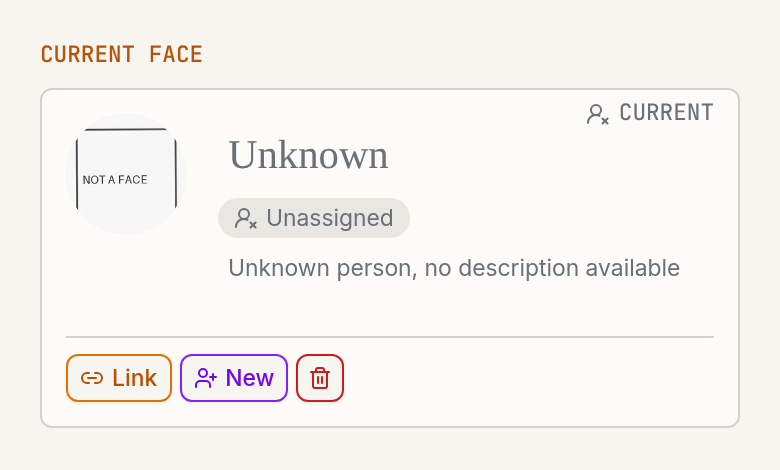
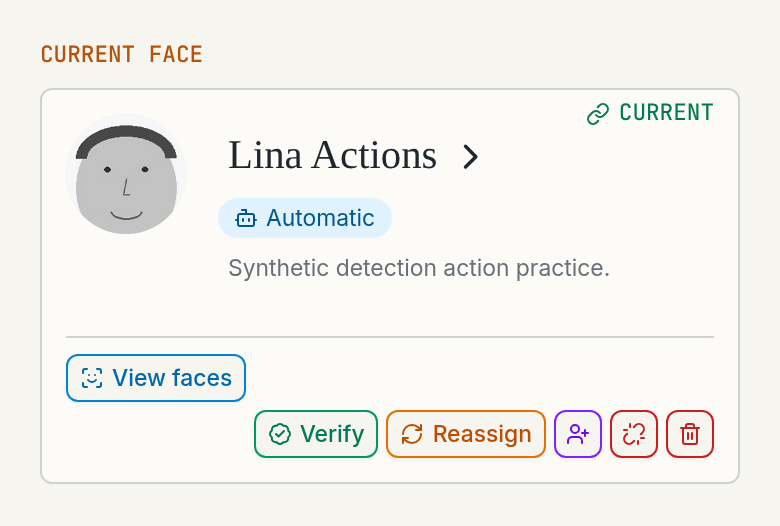
Keep View faces left and group card actions on the right (#49)
The current-face card footer keeps the identity faces popover on the
left and right-aligns Verify, Reassign/Link, New, Unlink and Delete as
one group, which wraps below View faces on narrow panels. Refresh the
card evidence with a linked face.

diff --git a/people-gator-app/src/components/custom/SelectedFaceItem.vue b/people-gator-app/src/components/custom/SelectedFaceItem.vue
@@ -226,75 +226,77 @@ watch(() => props.face.id, cancelCreating)
           :person-id="face.personId"
           :name="face.name"
         />
-        <slot name="actions" />
-        <Button
-          v-if="face.personId"
-          type="button"
-          size="xs"
-          variant="outline"
-          class="border-amber-600 text-amber-700 hover:text-amber-700 dark:border-amber-500 dark:text-amber-400 dark:hover:text-amber-400"
-          :disabled="props.assignmentPending"
-          aria-label="Reassign to another profile"
-          title="Reassign to another profile"
-          @click="emit('findProfile')"
-        >
-          <RefreshCw aria-hidden="true" />
-          Reassign
-        </Button>
-        <Button
-          v-else
-          type="button"
-          size="xs"
-          variant="outline"
-          :disabled="props.assignmentPending"
-          class="border-amber-600 text-amber-700 hover:text-amber-700 dark:border-amber-500 dark:text-amber-400 dark:hover:text-amber-400"
-          aria-label="Link to an existing profile"
-          title="Link to an existing profile"
-          @click="emit('findProfile')"
-        >
-          <Link2 aria-hidden="true" />
-          Link
-        </Button>
-        <Button
-          type="button"
-          :size="face.personId ? 'icon-xs' : 'xs'"
-          variant="outline"
-          class="border-violet-600 text-violet-700 hover:text-violet-700 dark:border-violet-500 dark:text-violet-400 dark:hover:text-violet-400"
-          :disabled="props.assignmentPending"
-          aria-label="Create and assign a new profile"
-          title="Create and assign a new profile"
-          @click="startCreating"
-        >
-          <UserPlus aria-hidden="true" />
-          <span :class="face.personId && 'sr-only'">New</span>
-        </Button>
-        <Button
-          v-if="face.personId"
-          type="button"
-          size="icon-xs"
-          variant="outline"
-          class="border-destructive text-destructive hover:text-destructive dark:border-destructive"
-          :disabled="props.assignmentPending"
-          aria-label="Unassign current profile"
-          title="Unassign current profile"
-          @click="emit('unassign')"
-        >
-          <Unlink aria-hidden="true" />
-          <span class="sr-only">Unlink</span>
-        </Button>
-        <Button
-          v-if="canDelete"
-          type="button"
-          size="icon-xs"
-          variant="outline"
-          class="border-destructive text-destructive hover:text-destructive dark:border-destructive"
-          :disabled="props.assignmentPending"
-          aria-label="Delete detection"
-          title="Delete detection"
-          @click="emit('delete')"
-        >
-          <Trash2 aria-hidden="true" />
-        </Button>
+        <div class="ml-auto flex min-w-0 flex-wrap items-center justify-end gap-1">
+          <slot name="actions" />
+          <Button
+            v-if="face.personId"
+            type="button"
+            size="xs"
+            variant="outline"
+            class="border-amber-600 text-amber-700 hover:text-amber-700 dark:border-amber-500 dark:text-amber-400 dark:hover:text-amber-400"
+            :disabled="props.assignmentPending"
+            aria-label="Reassign to another profile"
+            title="Reassign to another profile"
+            @click="emit('findProfile')"
+          >
+            <RefreshCw aria-hidden="true" />
+            Reassign
+          </Button>
+          <Button
+            v-else
+            type="button"
+            size="xs"
+            variant="outline"
+            :disabled="props.assignmentPending"
+            class="border-amber-600 text-amber-700 hover:text-amber-700 dark:border-amber-500 dark:text-amber-400 dark:hover:text-amber-400"
+            aria-label="Link to an existing profile"
+            title="Link to an existing profile"
+            @click="emit('findProfile')"
+          >
+            <Link2 aria-hidden="true" />
+            Link
+          </Button>
+          <Button
+            type="button"
+            :size="face.personId ? 'icon-xs' : 'xs'"
+            variant="outline"
+            class="border-violet-600 text-violet-700 hover:text-violet-700 dark:border-violet-500 dark:text-violet-400 dark:hover:text-violet-400"
+            :disabled="props.assignmentPending"
+            aria-label="Create and assign a new profile"
+            title="Create and assign a new profile"
+            @click="startCreating"
+          >
+            <UserPlus aria-hidden="true" />
+            <span :class="face.personId && 'sr-only'">New</span>
+          </Button>
+          <Button
+            v-if="face.personId"
+            type="button"
+            size="icon-xs"
+            variant="outline"
+            class="border-destructive text-destructive hover:text-destructive dark:border-destructive"
+            :disabled="props.assignmentPending"
+            aria-label="Unassign current profile"
+            title="Unassign current profile"
+            @click="emit('unassign')"
+          >
+            <Unlink aria-hidden="true" />
+            <span class="sr-only">Unlink</span>
+          </Button>
+          <Button
+            v-if="canDelete"
+            type="button"
+            size="icon-xs"
+            variant="outline"
+            class="border-destructive text-destructive hover:text-destructive dark:border-destructive"
+            :disabled="props.assignmentPending"
+            aria-label="Delete detection"
+            title="Delete detection"
+            @click="emit('delete')"
+          >
+            <Trash2 aria-hidden="true" />
+          </Button>
+        </div>
       </div>
       <p v-if="actionError" role="alert" class="basis-full text-xs text-destructive">
         {{ actionError }}

diff --git a/people-gator-app/src/__tests__/SimilarPeoplePanel.spec.ts b/people-gator-app/src/__tests__/SimilarPeoplePanel.spec.ts
@@ -189,6 +189,15 @@ describe('SimilarPeoplePanel', () => {
     const reassignButton = wrapper.get('[aria-label="Reassign to another profile"]')
     expect(reassignButton.attributes('data-size')).toBe('xs')
     expect(reassignButton.element.closest('[data-slot="item-footer"]')).not.toBeNull()
+    // View faces stays on the left; the actions are grouped on the right.
+    const actions = reassignButton.element.parentElement!
+    expect(actions.classList).toContain('ml-auto')
+    expect(actions.classList).toContain('justify-end')
+    const viewFaces = wrapper.get('button[aria-label*="faces" i]').element
+    expect(actions.contains(viewFaces)).toBe(false)
+    expect(
+      viewFaces.compareDocumentPosition(actions) & Node.DOCUMENT_POSITION_FOLLOWING,
+    ).toBeTruthy()
     expect(wrapper.text()).toContain('Reassign to similar')
     expect(
       wrapper.get('[aria-label="Assigned to Anna Nováková"]').attributes('disabled'),

diff --git a/people-gator-api/docs/PREVIEW-SEEDING.md b/people-gator-api/docs/PREVIEW-SEEDING.md
@@ -996,9 +996,10 @@ checks Nora's empty gallery and preserves a reviewed assignment on rerun.
 
 
 `identity-reference-faces` also selects an assigned manual face for checking the
-card's compact footer: **View faces**, **Verify** and **Reassign** share one
-action row, followed by named icon buttons for **New** and **Unlink**.
-Controls wrap together on narrower panels. Verification errors appear inside the
+card's compact footer: **View faces** stays on the left, and **Verify**,
+**Reassign** and named icon buttons for **New**, **Unlink** and (for admins)
+**Delete detection** are grouped on the right. On narrow panels the action group
+wraps below View faces and stays right-aligned. Verification errors appear inside the
 card below the actions; verified attribution stays available on the state badge.
 
 Action colors: sky for face references, green for verification/save, amber for
